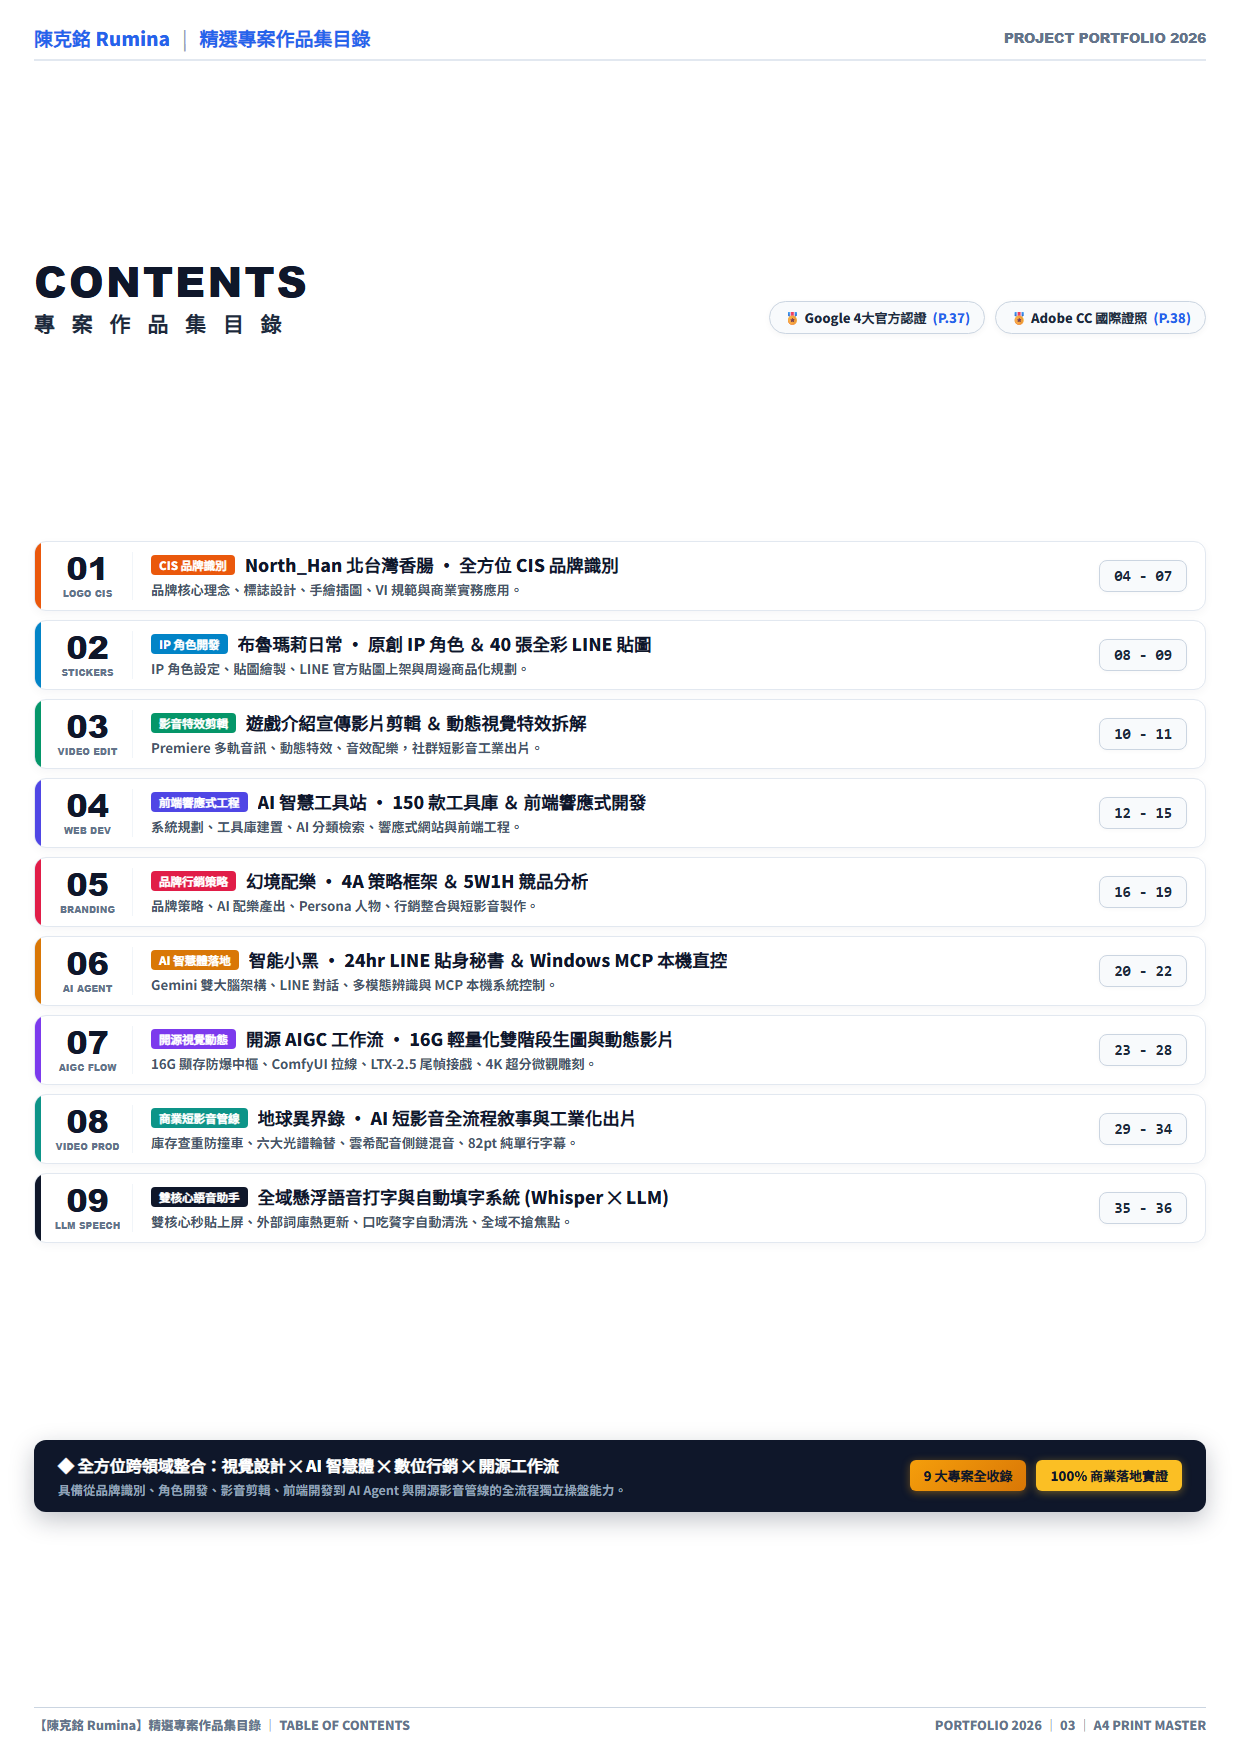
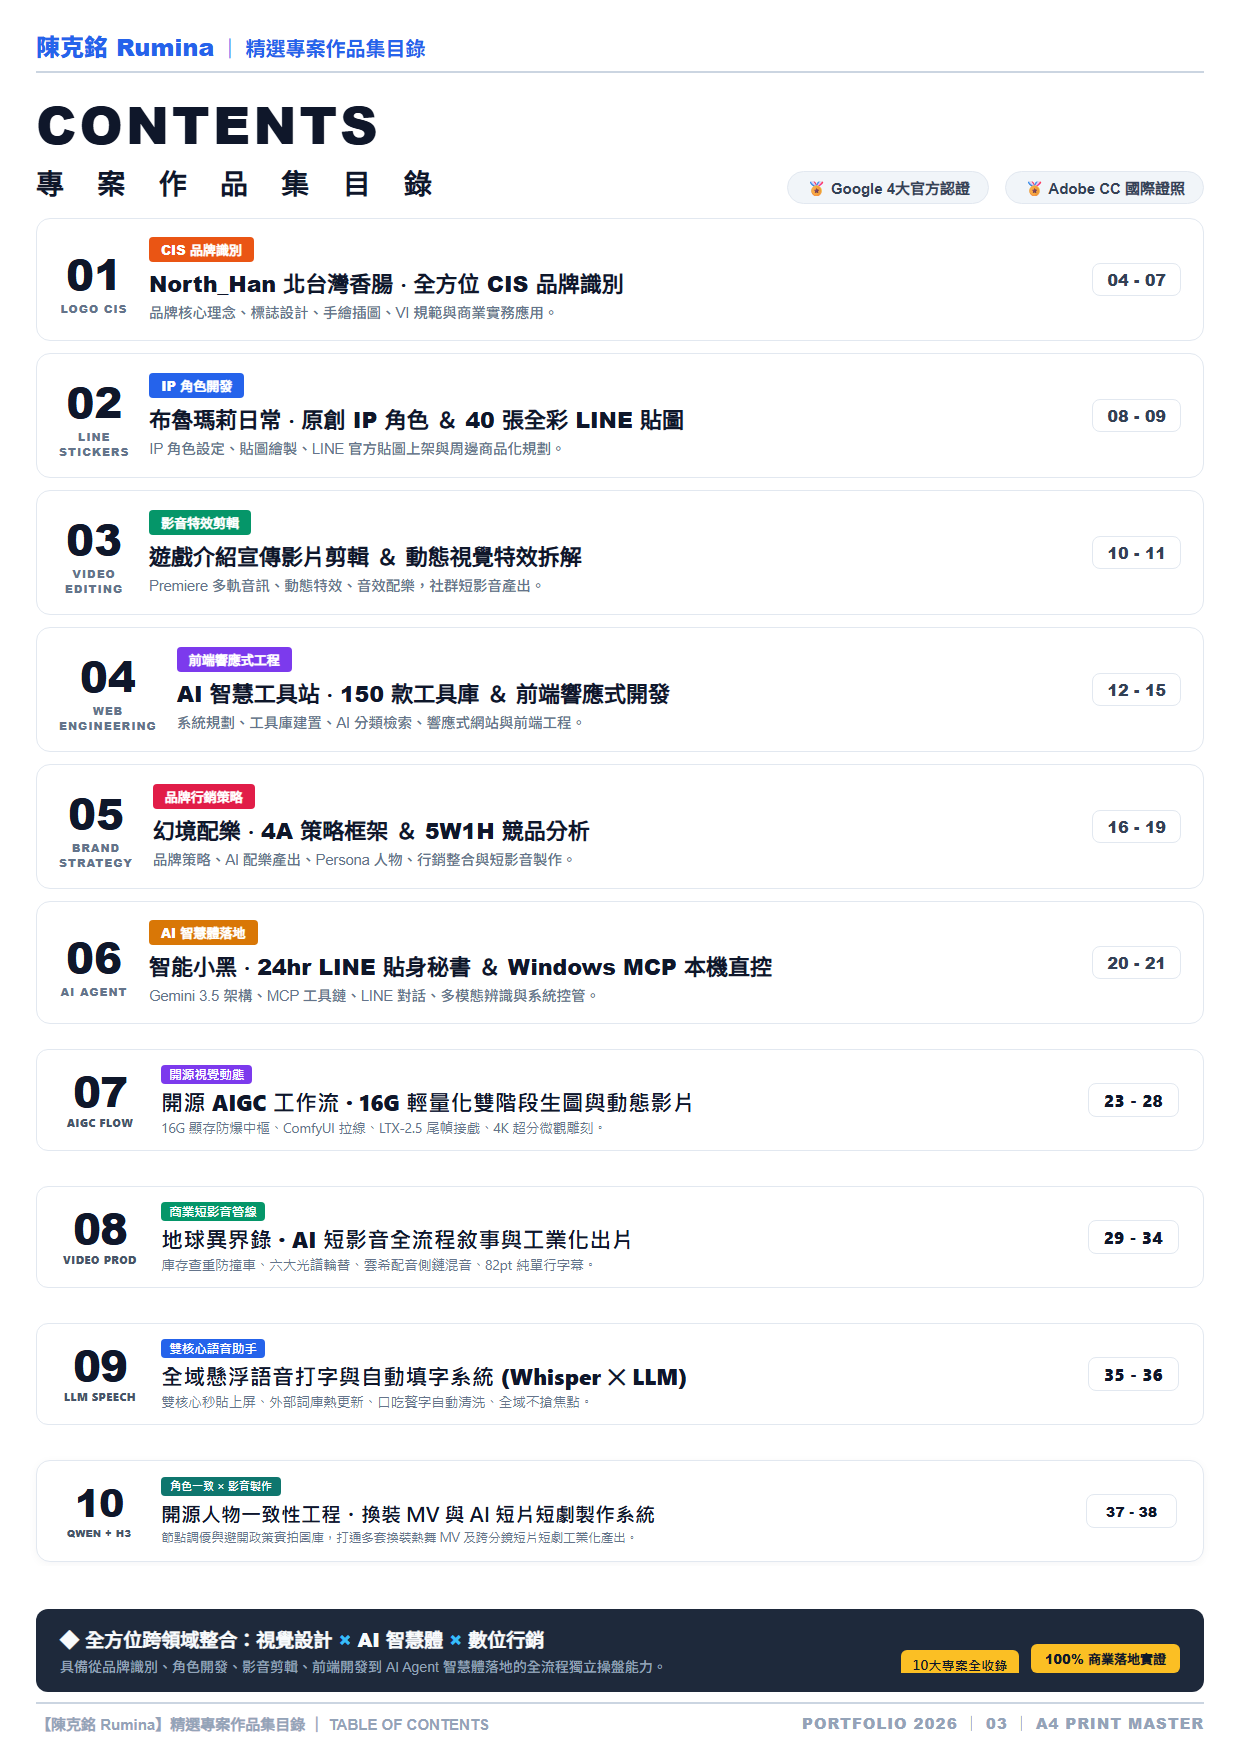
Update portfolio pages 03, 37, 38 (10-project index and topic 10)

diff --git a/portfolio.html b/portfolio.html
@@ -3,7 +3,7 @@
 <head>
 <meta charset="UTF-8">
 <meta name="viewport" content="width=device-width, initial-scale=1.0, maximum-scale=3.0, user-scalable=yes">
-<title>陳克銘 (Rumina) ‧ 39 頁全方位多媒體視覺設計 ＆ AI Agent 專案作品集</title>
+<title>陳克銘 (Rumina) ‧ 41 頁全方位多媒體視覺設計 ＆ AI Agent 專案作品集</title>
 <link href="https://fonts.googleapis.com/css2?family=Noto+Serif+TC:wght@700;900&family=Noto+Sans+TC:wght@400;500;700;900&family=Montserrat:wght@700;800;900&display=swap" rel="stylesheet">
 <style>
   * { box-sizing: border-box; margin: 0; padding: 0; }
@@ -119,11 +119,11 @@
       <div class="logo-badge">R</div>
       <div>
         <div>陳克銘 (Rumina) 作品集</div>
-        <div class="author-sub">39 頁全方位視覺設計 ＆ AI 專案全集</div>
+        <div class="author-sub">41 頁全方位視覺設計 ＆ AI 專案全集</div>
       </div>
     </div>
     <div class="header-links">
-      <button class="btn-nav" onclick="toggleMenu()">📑 39 頁目錄全覽</button>
+      <button class="btn-nav" onclick="toggleMenu()">📑 41 頁目錄全覽</button>
     </div>
   </header>
 
@@ -131,7 +131,7 @@
   <main>
     <div class="viewer-container" id="viewerContainer">
       <div class="page-card" id="pageCard">
-        <img class="page-img" id="pageImage" src="images/page_01.png" alt="陳克銘 39 頁作品集">
+        <img class="page-img" id="pageImage" src="images/page_01.png" alt="陳克銘 41 頁作品集">
       </div>
     </div>
   </main>
@@ -139,15 +139,15 @@
   <!-- 底部懸浮控制器 -->
   <div class="floating-controls">
     <button class="btn-ctrl" onclick="prevPage()" title="上一頁 (鍵盤 ◀)">◀</button>
-    <div class="page-indicator" id="pageIndicator">第 01 / 39 頁</div>
+    <div class="page-indicator" id="pageIndicator">第 01 / 41 頁</div>
     <button class="btn-ctrl" onclick="nextPage()" title="下一頁 (鍵盤 ▶)">▶</button>
   </div>
 
-  <!-- 37 頁專案全集目錄彈窗 -->
+  <!-- 41 頁專案全集目錄彈窗 -->
   <div class="menu-modal" id="menuModal" onclick="if(event.target===this)toggleMenu()">
     <div class="modal-content">
       <div class="modal-top">
-        <div class="modal-title">📚 39 頁作品集全覽目錄</div>
+        <div class="modal-title">📚 41 頁作品集全覽目錄</div>
         <button class="btn-ctrl" style="width:36px;height:36px;font-size:16px;" onclick="toggleMenu()">✕</button>
       </div>
       <div class="menu-list" id="menuList"></div>
@@ -158,7 +158,7 @@
     const pages = [
     { index: 1, title: "01. 封面 ‧ 多媒體視覺設計與 AI Agent 專案全集", file: "images/page_01.png" },
     { index: 2, title: "02. 個人簡介 ‧ 自我介紹與核心專業技能", file: "images/page_02.png" },
-    { index: 3, title: "03. 作品目錄 ‧ 九大專案精選全覽", file: "images/page_03.png" },
+    { index: 3, title: "03. 作品目錄 ‧ 十大專案精選全覽", file: "images/page_03.png" },
     { index: 4, title: "04. Logo 設計 ‧ 標誌理念與美學構圖", file: "images/page_04.png" },
     { index: 5, title: "05. Logo 設計 ‧ 標準色彩與比例規範", file: "images/page_05.png" },
     { index: 6, title: "06. Logo 設計 ‧ 商用情境模擬展示", file: "images/page_06.png" },
@@ -192,9 +192,11 @@
     { index: 34, title: "34. 地球異界錄 ‧ 全流程成果總覽：卡塔通博閃電實機 QR ＆ 20 部作品矩陣", file: "images/page_34.png" },
     { index: 35, title: "35. 全域懸浮語音聽打 ‧ Whisper ✕ LLM 雙核心全能語音助手架構", file: "images/page_35.png" },
     { index: 36, title: "36. 全域懸浮語音聽打 ‧ 三代版本演進過程 (V0 ➔ V1 ➔ V2) ＆ 四大核心工程突破", file: "images/page_36.png" },
-    { index: 37, title: "37. 專業認證 ‧ Google 官方 4 大專業能力認證", file: "images/page_37.png" },
-    { index: 38, title: "38. 國際證照 ‧ Adobe CC 官方認證 ＆ 專業技能評測", file: "images/page_38.png" },
-    { index: 39, title: "39. 封底總覽 ‧ 虛實整合與聯絡資訊", file: "images/page_39.png" }
+    { index: 37, title: "37. 開源角色一致性工程 ‧ Qwen 2.1 三向鎖臉與 16:9 / 9:16 崩臉機制演進", file: "images/page_37.png" },
+    { index: 38, title: "38. 開源角色一致性工程 ‧ 黑-25 三代防違規演化、失敗復盤 ＆ 跨角度高奢成品牆", file: "images/page_38.png" },
+    { index: 39, title: "39. 專業認證 ‧ Google 官方 4 大專業能力認證", file: "images/page_39.png" },
+    { index: 40, title: "40. 國際證照 ‧ Adobe CC 官方認證 ＆ 專業技能評測", file: "images/page_40.png" },
+    { index: 41, title: "41. 封底總覽 ‧ 虛實整合與聯絡資訊", file: "images/page_41.png" }
   ];
 
   let currentIndex = 0;
